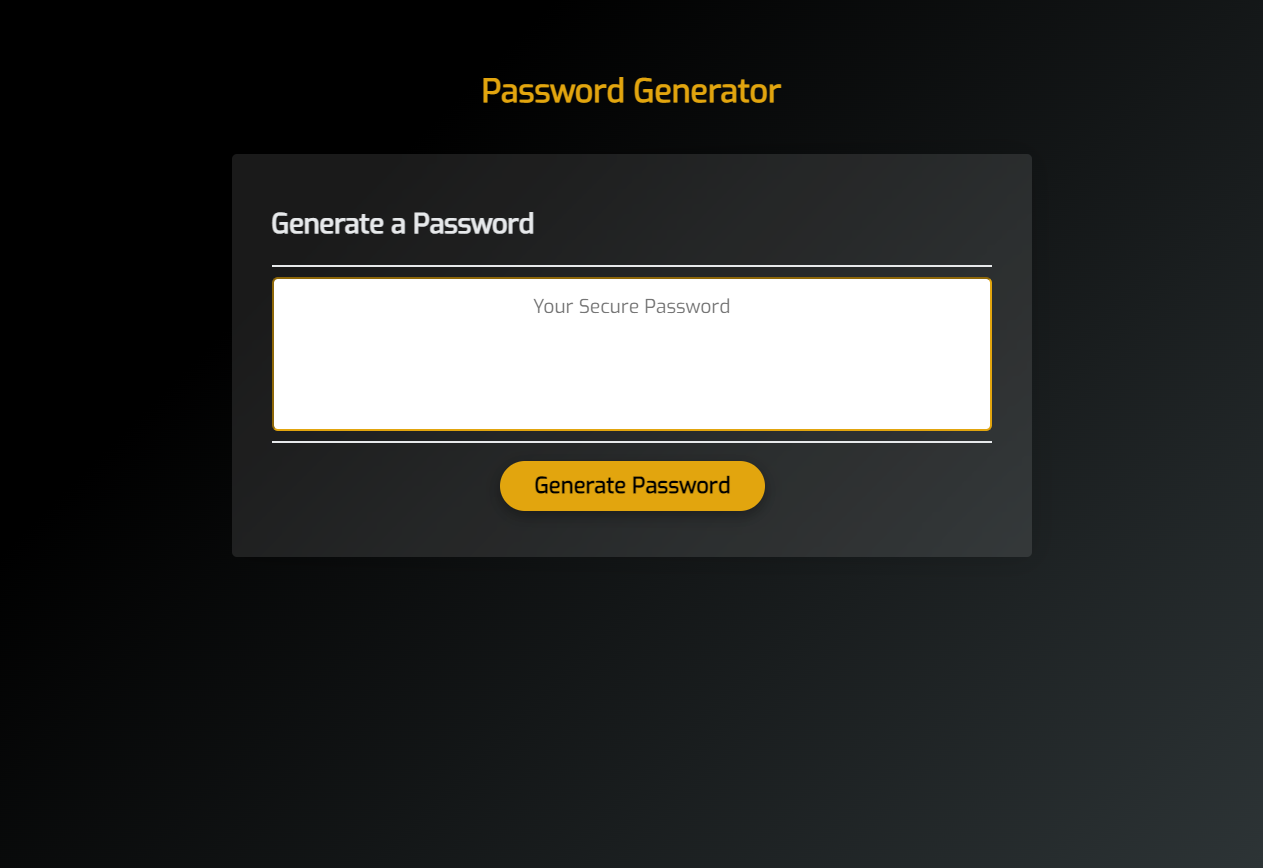
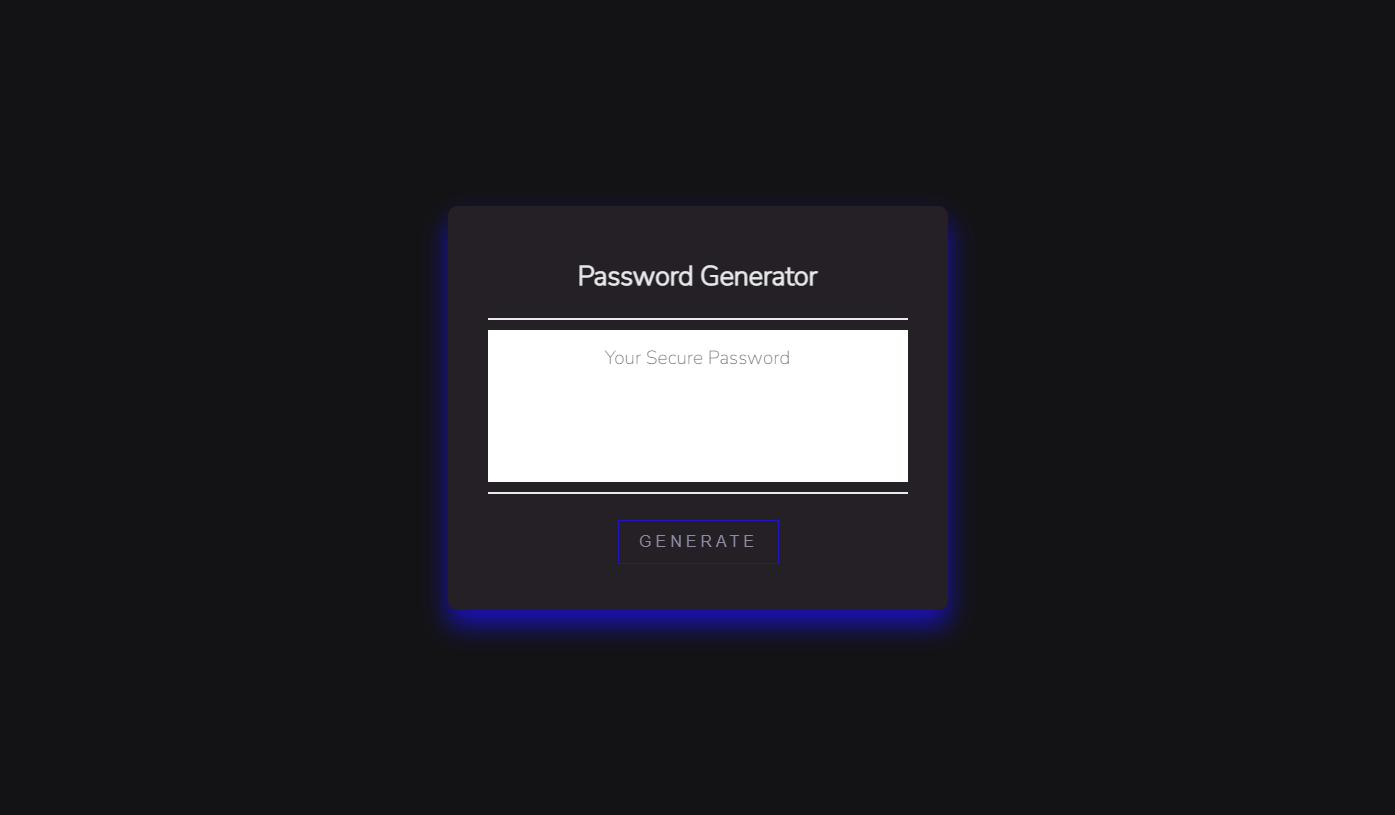
Updated UI, README

diff --git a/style.css b/style.css
@@ -1,47 +1,47 @@
+@import url('https://fonts.googleapis.com/css2?family=Nunito+Sans:wght@200&display=swap');
 *,
 *::before,
 *::after {
     box-sizing: border-box;
 }
 
+:root {
+    --font-style: 'Nunito Sans', sans-serif;
+}
+
 html,
 body,
 .wrapper {
     height: 100%;
+    width: 100%;
     margin: 0;
     padding: 0;
+    display: flex;
+    justify-content: center;
+    align-items: center;
 }
 
 body {
-    font-family: 'Exo', sans-serif;
-    background-color: #2d3436;
-    background-image: linear-gradient(315deg, #2d3436 0%, #000000 74%);
+    font-family: var(--font-style);
+    background: #131315;
 }
 
 .wrapper {
-    padding-top: 50px;
-    padding-left: 20px;
-    padding-right: 20px;
-}
-
-header {
-    text-align: center;
-    padding: 20px;
-    padding-top: 0px;
-    color: #e2a50e;
+    padding: 40px;
 }
 
 .card {
-    background: #ffffff1a;
+    background: #242026;
     backdrop-filter: blur(20px);
-    box-shadow: 0 0 30px #0000002a;
-    border-radius: 5px;
-    border-width: 1px;
     color: #e7e9eb;
     font-size: 18px;
     margin: 0 auto;
+    width: 500px;
     max-width: 800px;
     padding: 30px 40px;
+    text-align: center;
+    box-shadow: 0 15px 25px rgba(0, 0, 255, 0.7);
+    border-radius: 10px;
 }
 
 .card-header::after {
@@ -54,6 +54,7 @@ header {
 
 .card-body {
     min-height: 100px;
+    background: #e7e9eb;
 }
 
 .card-footer {
@@ -76,24 +77,26 @@ header {
 
 .btn {
     border: none;
-    background-color: #e2a50e;
-    border-radius: 25px;
-    color: black;
-    font-family: 'Exo', sans-serif;
-    font-weight: 600;
+    background: transparent;
+    color: #8c8b9e;
     display: inline-block;
-    font-size: 22px;
+    font-size: 16px;
     line-height: 22px;
-    margin: 18px 18px 16px 20px;
-    padding: 14px 34px;
+    margin: 26px 18px 16px 20px;
+    padding: 10px 20px;
     text-align: center;
     cursor: pointer;
-    box-shadow: rgba(0, 0, 0, 0.35) 0px 5px 15px;
+    text-transform: uppercase;
+    letter-spacing: 4px;
+    border: 1px solid rgba(0, 0, 255, 0.7);
+    transition: .5s;
 }
 
-button[disabled] {
-    cursor: default;
-    background: #c0c7cf;
+.btn:hover {
+    background: rgba(0, 0, 255, 0.7);
+    color: #e7e9eb;
+    border-radius: 5px;
+    box-shadow: 0 0 5px rgba(0, 0, 255, 0.7), 0 0 25px rgba(0, 0, 255, 0.7), 0 0 50px rgba(0, 0, 255, 0.7), 0 0 75px rgba(0, 0, 255, 0.7);
 }
 
 .float-right {
@@ -107,22 +110,20 @@ button[disabled] {
     border: none;
     display: block;
     width: 100%;
-    padding-top: 15px;
-    padding-left: 15px;
-    padding-right: 15px;
-    padding-bottom: 85px;
+    padding: 15px 15px 85px 15px;
     font-size: 1.2rem;
     text-align: center;
     margin-top: 10px;
     margin-bottom: 10px;
-    border: 2px inset #e2a50e;
-    border-radius: 6px;
     resize: none;
     overflow: hidden;
-    font-family: 'Exo', sans-serif;
+    font-family: var(--font-style);
 }
 
 @media (max-width: 690px) {
+    .card-header {
+        font-size: 1rem;
+    }
     .btn {
         font-size: 1rem;
         margin: 16px 0px 0px 0px;
@@ -134,6 +135,9 @@ button[disabled] {
 }
 
 @media (max-width: 500px) {
+    .card-header {
+        font-size: 0.8rem;
+    }
     .btn {
         font-size: 0.8rem;
     }

diff --git a/index.html b/index.html
@@ -6,26 +6,20 @@
     <meta name="viewport" content="width=device-width, initial-scale=1.0" />
     <meta http-equiv="X-UA-Compatible" content="ie=edge" />
     <title>Password Generator</title>
-    <link rel="preconnect" href="https://fonts.googleapis.com">
-    <link rel="preconnect" href="https://fonts.gstatic.com" crossorigin>
-    <link href="https://fonts.googleapis.com/css2?family=Exo&family=Inconsolata&display=swap" rel="stylesheet">
     <link rel="stylesheet" href="style.css" />
 </head>
 
 <body>
     <div class="wrapper">
-        <header>
-            <h1>Password Generator</h1>
-        </header>
         <div class="card">
             <div class="card-header">
-                <h2>Generate a Password</h2>
+                <h2>Password Generator</h2>
             </div>
             <div class="card-body">
                 <textarea readonly id="password" placeholder="Your Secure Password" aria-label="Generated Password"></textarea>
             </div>
             <div class="card-footer">
-                <button id="generate" class="btn">Generate Password</button>
+                <button id="generate" class="btn">Generate</button>
             </div>
         </div>
     </div>

diff --git a/README.md b/README.md
@@ -4,7 +4,7 @@
 
 ## Description
 
-A random password generator created with HTML, CSS and JavaScript. 
+A random password generator built with HTML, CSS and JavaScript. 
 
 Users can generate strong passwords that provide greater security by 
 answering a series of password criteria prompts including desired 
@@ -16,7 +16,7 @@ length and character types.
 
 ## Link 
 
-https://chloeharris1.github.io/passwordgenerator/
+[Password Generator](https://chloeharris1.github.io/passwordgenerator/)
 
 ## License
 Licensed under the MIT license.
